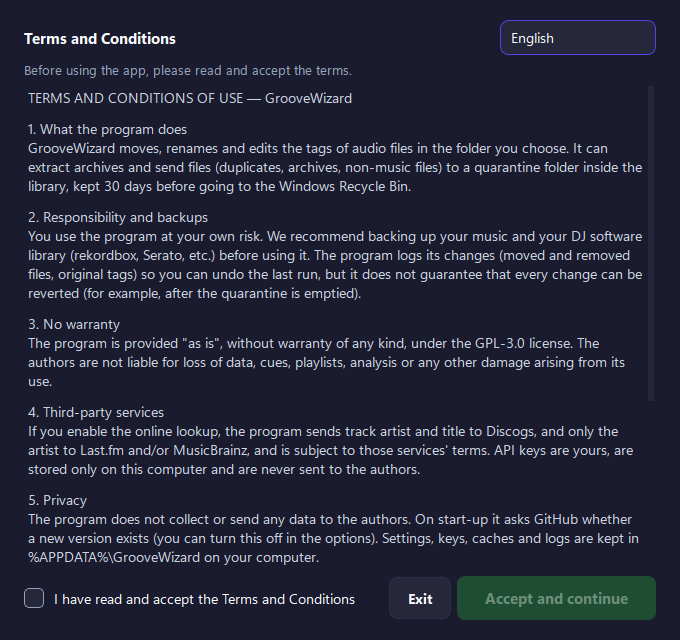
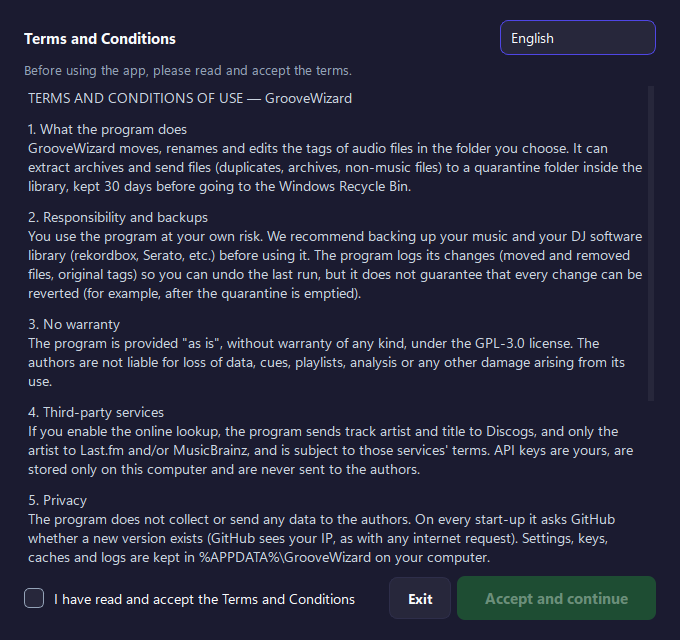
GrooveWizard 1.2.1: avisa sempre quando há versão nova
A opção para desligar a procura de atualizações foi removida; a app pergunta sempre ao GitHub ao abrir. Termos (versão 7), README e capturas atualizados.

Changed region(s): [[0.0309, 0.7812, 0.9265, 0.9062]]

diff --git a/organizador/termos.py b/organizador/termos.py
@@ -1,6 +1,6 @@
 """Terms and Conditions shown in the installer and on first run. Bump VERSION when the text changes (asks again)."""
 
-VERSION = "6"
+VERSION = "7"
 
 TERMS = {
     "pt": """TERMOS E CONDIÇÕES DE UTILIZAÇÃO — GrooveWizard
@@ -18,7 +18,7 @@ O programa é fornecido "tal como está", sem garantias de qualquer tipo, nos te
 Se ativares a procura online, o programa envia o artista e o título das faixas ao Discogs, e só o artista ao Last.fm e/ou ao MusicBrainz, e fica sujeito aos termos desses serviços. As chaves de API são tuas, ficam guardadas apenas neste computador e não são enviadas aos autores.
 
 5. Privacidade
-O programa não recolhe nem envia dados para os autores. Ao abrir, pergunta ao GitHub se há uma versão nova (podes desligar isto nas opções). Definições, chaves, caches e registos ficam em %APPDATA%\\GrooveWizard no teu computador.
+O programa não recolhe nem envia dados para os autores. Ao abrir, pergunta sempre ao GitHub se há uma versão nova (o GitHub vê o teu IP, como em qualquer pedido na internet). Definições, chaves, caches e registos ficam em %APPDATA%\\GrooveWizard no teu computador.
 
 6. Direitos sobre a música
 O programa não descarrega nem distribui música. És responsável por teres o direito de usar os ficheiros que organizas.
@@ -46,7 +46,7 @@ The program is provided "as is", without warranty of any kind, under the GPL-3.0
 If you enable the online lookup, the program sends track artist and title to Discogs, and only the artist to Last.fm and/or MusicBrainz, and is subject to those services' terms. API keys are yours, are stored only on this computer and are never sent to the authors.
 
 5. Privacy
-The program does not collect or send any data to the authors. On start-up it asks GitHub whether a new version exists (you can turn this off in the options). Settings, keys, caches and logs are kept in %APPDATA%\\GrooveWizard on your computer.
+The program does not collect or send any data to the authors. On every start-up it asks GitHub whether a new version exists (GitHub sees your IP, as with any internet request). Settings, keys, caches and logs are kept in %APPDATA%\\GrooveWizard on your computer.
 
 6. Music rights
 The program does not download or distribute music. You are responsible for having the right to use the files you organize.

diff --git a/organizador/gui.py b/organizador/gui.py
@@ -18,7 +18,7 @@ from .theme import C, QSS
 # (Options field, pipeline step ids shown on that row). "_organize" always runs.
 STEPS = [("extract", ["extract"]), ("_organize", ["organize"]), ("dedupe", ["dedupe_scan", "dedupe_remove"]),
          ("online", ["online"]), ("bpm_folders", ["bpm"]), ("write_tags", ["tags"])]
-EXTRA_OPTIONS = ["merge_versions", "clean_sites", "families", "musicbrainz", "delete_archives", "check_updates"]
+EXTRA_OPTIONS = ["merge_versions", "clean_sites", "families", "musicbrainz", "delete_archives"]
 ICON = os.path.join(os.path.dirname(os.path.abspath(__file__)), "recursos", "groovewizard-icone.png")  # symbol without tile: reads bigger
 LOGO = os.path.join(os.path.dirname(os.path.abspath(__file__)), "recursos", "groovewizard-simbolo.png")  # no tile: sits on the dark header
 
@@ -795,6 +795,5 @@ def main():
         sys.exit(0)
     w = Window()
     w.show()
-    if config.load()[0].check_updates:
-        w.look_for_update()
+    w.look_for_update()  # always: the user wants to be told about every new version
     sys.exit(app.exec())

diff --git a/organizador/i18n.py b/organizador/i18n.py
@@ -114,8 +114,6 @@ S = {
     "key.ok": {"pt": '✓ Válida {detail}', "en": '✓ Valid {detail}'},
     "key.invalid": {"pt": '✗ Inválida — confirma que copiaste a chave toda', "en": '✗ Invalid — check you copied the whole key'},
     "key.offline": {"pt": 'Sem resposta do serviço (internet?) {detail}', "en": 'No answer from the service (internet?) {detail}'},
-    "opt.check_updates": {"pt": 'Avisar quando houver uma versão nova', "en": 'Tell me when a new version is out'},
-    "opt.check_updates_d": {"pt": 'Ao abrir, pergunta ao GitHub qual é a última versão (sem enviar dados teus).', "en": 'On start-up, asks GitHub for the latest version (no data of yours is sent).'},
     "upd.available": {"pt": 'Há uma versão nova do GrooveWizard: {v}', "en": 'A new GrooveWizard version is available: {v}'},
     "upd.install": {"pt": 'Atualizar', "en": 'Update'},
     "upd.open_page": {"pt": 'Ver no GitHub', "en": 'Open on GitHub'},

diff --git a/organizador/pipeline.py b/organizador/pipeline.py
@@ -73,7 +73,6 @@ class Options:
     families: bool = True
     folder_lang: str = "pt"  # language of Sem Genero / Outros / BPM folder names, fixed on first use
     merge_versions: bool = True  # Radio Edit / Club Mix count as the same song as the Extended Mix
-    check_updates: bool = True  # app setting (not used by the pipeline): look for a new release at start-up
 
 
 class Cancelled(Exception):

diff --git a/organizador/__init__.py b/organizador/__init__.py
@@ -1,2 +1,2 @@
 """GrooveWizard: sorts a DJ music library by genre."""
-__version__ = "1.2.0"
+__version__ = "1.2.1"

diff --git a/README.md b/README.md
@@ -89,7 +89,7 @@ Ajuda completa dentro da app (botão **Ajuda** ou F1).
 
 - As chaves ficam em `%APPDATA%\GrooveWizard\config.json`, encriptadas com o Windows (DPAPI) sempre que o Windows o permite; só o teu utilizador neste PC as consegue ler. São enviadas apenas ao próprio serviço (Discogs ou Last.fm), na procura online e quando carregas em **Verificar**.
 - Na procura online, o Discogs recebe o artista e o título; o Last.fm e o MusicBrainz recebem o artista.
-- Ao abrir, a app pergunta ao GitHub se há uma versão nova. Como em qualquer pedido na internet, o GitHub vê o teu IP. Desliga-se nas opções.
+- Ao abrir, a app pergunta ao GitHub se há uma versão nova. Como em qualquer pedido na internet, o GitHub vê o teu IP. Isto acontece sempre, para avisar de cada versão nova.
 - Caches (artistas e títulos pesquisados), registos e o histórico para desfazer ficam em `%APPDATA%\GrooveWizard\bibliotecas\`, **fora** da pasta das músicas, para não aparecerem se a partilhares no Soulseek/Nicotine+. Se a app falhar, o erro fica em `%APPDATA%\GrooveWizard\erros.log`.
 - Nada é enviado aos autores.
 
@@ -136,7 +136,7 @@ python app.py
 
 **Limits:** it does not touch rekordbox/Serato databases (playlists, cues, beat grids) — relocate files afterwards (documented for rekordbox; untested on Serato). Duplicate detection and online genres are heuristics: review the preview and the quarantine. The installer reads BPM from tags only. Uninstalling keeps `%APPDATA%\GrooveWizard`.
 
-**Privacy:** API keys are DPAPI-encrypted when Windows allows it and are sent only to their own service. Discogs receives artist and title; Last.fm and MusicBrainz receive the artist. At start-up the app asks GitHub for the latest version (GitHub sees your IP; can be turned off). Caches, logs and undo history live in `%APPDATA%\GrooveWizard`, outside the music folder; crashes are written to `%APPDATA%\GrooveWizard\erros.log`. The SHA-256 in each release proves integrity (the file is the one published), not authorship: the installer is unsigned, so download only from this repository's Releases. Nothing is sent to the authors.
+**Privacy:** API keys are DPAPI-encrypted when Windows allows it and are sent only to their own service. Discogs receives artist and title; Last.fm and MusicBrainz receive the artist. At start-up the app asks GitHub for the latest version (GitHub sees your IP; always on, so every new version is announced). Caches, logs and undo history live in `%APPDATA%\GrooveWizard`, outside the music folder; crashes are written to `%APPDATA%\GrooveWizard\erros.log`. The SHA-256 in each release proves integrity (the file is the one published), not authorship: the installer is unsigned, so download only from this repository's Releases. Nothing is sent to the authors.
 
 **From source:** `pip install -r requirements.txt && python app.py`. Tests: `python tests/test_pipeline.py`.
 
